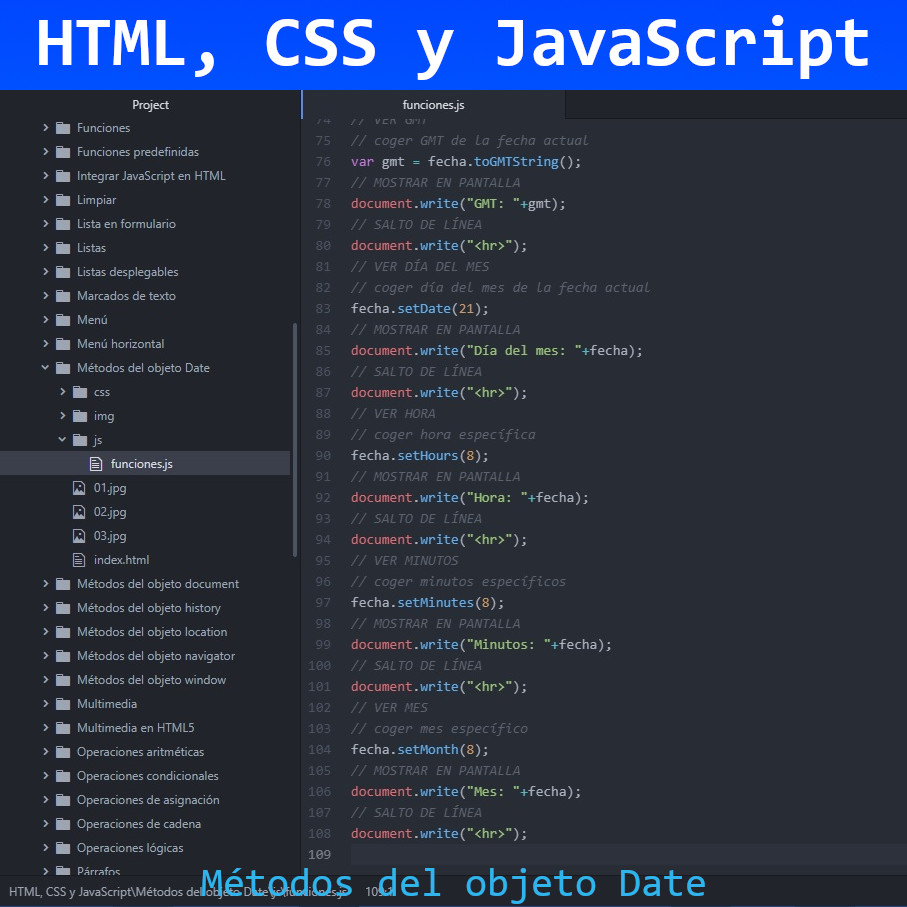
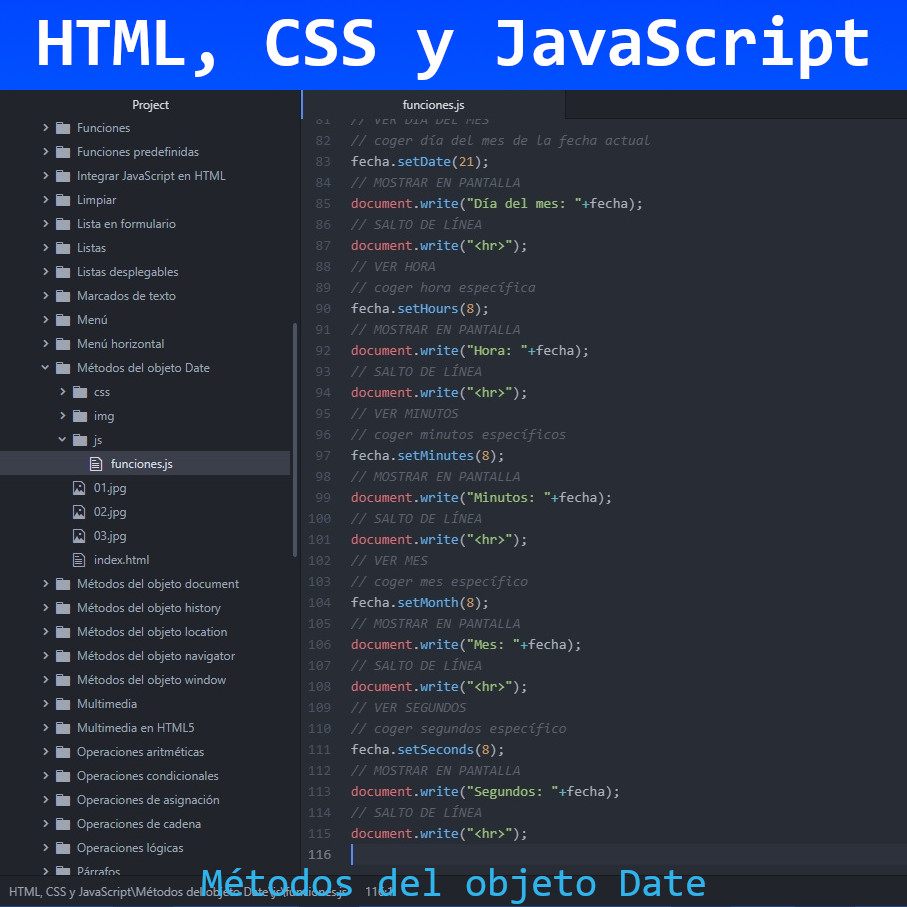
Métodos del objeto Date
Métodos del objeto Date en JavaScript

diff --git a/HTML, CSS y JavaScript/Métodos del objeto Date/js/funciones.js b/HTML, CSS y JavaScript/Métodos del objeto Date/js/funciones.js
@@ -106,3 +106,10 @@ fecha.setMonth(8);
 document.write("Mes: "+fecha);
 // SALTO DE LÍNEA
 document.write("<hr>");
+// VER SEGUNDOS
+// coger segundos específico
+fecha.setSeconds(8);
+// MOSTRAR EN PANTALLA
+document.write("Segundos: "+fecha);
+// SALTO DE LÍNEA
+document.write("<hr>");
